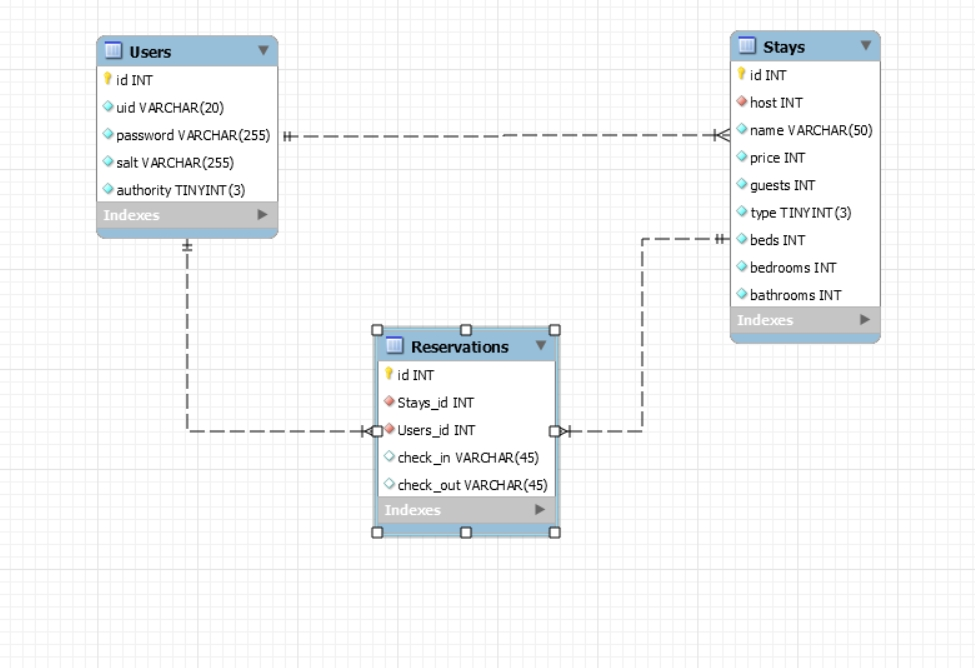
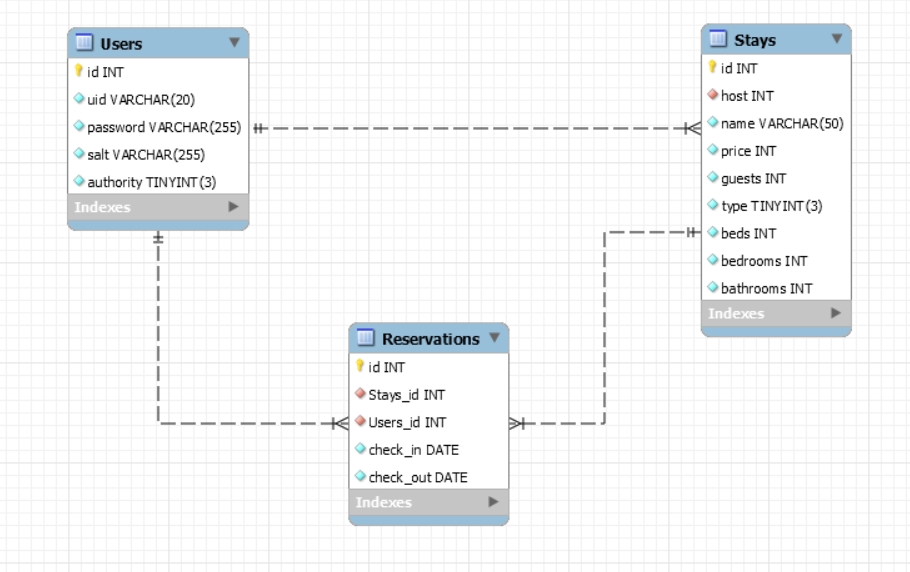
Add: db initialization script with sequelize
- sequelize orm을 이용하여 DB초기화를 편하게 하기 위한 스크립트 생성
- 현재 4종류의 더미 유저 데이터만 들어가는 상태로, 향후 예약 / 숙소 더미
데이터를 입력해야 함

Changed region(s): [[0.0615, 0.0297, 0.9538, 0.9213]]

diff --git a/airbnb/scripts/db_initialization.js b/airbnb/scripts/db_initialization.js
@@ -1,16 +1,146 @@
-const mysql = require('mysql2');
-require('dotenv').config()
+const Sequelize = require('sequelize')
+const sequelize = require('../src/js/util/util_sequelize')
 
-const connection = mysql.createConnection({
-    host: process.env.MYSQL_HOST,
-    user: process.env.MYSQL_USER,
-    password: process.env.MYSQL_PASSWORD,
-    database: process.env.MYSQL_DATABASE_NAME
+// User 스키마 정의
+const User = sequelize.define('user', {
+    uid: {
+        type: Sequelize.STRING(20),
+        allowNull: false,
+        unique: true,
+        validate: {
+            is: /[a-z0-9\_\-]*/,
+            len: [4, 20],
+            notEmpty: true
+        }
+    },
+    password: {
+        type: Sequelize.STRING(255),
+        allowNull: false
+    },
+    salt: {
+        type: Sequelize.STRING(255),
+        allowNull: false
+    },
+    authority: {
+        type: Sequelize.INTEGER(10).UNSIGNED,
+        allowNull: false,
+        defaultValue: 0,
+        unique: true,
+        validate: {
+            min: 0,
+            max: 10
+        }
+    }
+})
+
+// Stays 스키마 정의
+const Stay = sequelize.define('stay', {
+    name: {
+        type: Sequelize.STRING(50),
+        allowNull: false
+    },
+    price: {
+        type: Sequelize.INTEGER.UNSIGNED,
+        allowNull: false
+    },
+    guests: {
+        type: Sequelize.INTEGER.UNSIGNED,
+        allowNull: false
+    },
+    type: {
+        type: Sequelize.INTEGER(10).UNSIGNED,
+        allowNull: false,
+        validate: {
+            min: 0,
+            max: 10
+        }
+    },
+    beds: {
+        type: Sequelize.INTEGER.UNSIGNED,
+        allowNull: false
+    },
+    bedrooms: {
+        type: Sequelize.INTEGER.UNSIGNED,
+        allowNull: false
+    },
+    bathrooms: {
+        type: Sequelize.INTEGER.UNSIGNED,
+        allowNull: false
+    },
+})
+
+// Reservations 스키마 정의
+const Reservation = sequelize.define('reservation', {
+    check_in: {
+        type: Sequelize.DATEONLY,
+        allowNull: false
+    },
+    check_out: {
+        type: Sequelize.DATEONLY,
+        allowNull: false
+    }
+})
+
+// Association 정의
+User.hasMany(Stay, {
+    onUpdate: 'CASCADE',
+    onDelete: 'CASCADE',
+    foreignKey: {
+        allowNull: false
+    }
+})
+
+User.hasMany(Reservation, {
+    onUpdate: 'CASCADE',
+    onDelete: 'CASCADE',
+    foreignKey: {
+        allowNull: false
+    }
+})
+
+Stay.hasMany(Reservation, {
+    onUpdate: 'CASCADE',
+    onDelete: 'CASCADE',
+    foreignKey: {
+        allowNull: false
+    }
 });
 
-//Connection start
-connection.connect();
+// DB에 스키마를 통해 테이블 생성
+(async() => {
+    await sequelize.sync({
+        force: true
+    })
 
+    // User seed
+    User.create({
+        uid: 'admin',
[2 lines of base64/hex data omitted]
+        authority: 3
+    })
 
-//Connection end
-connection.end();
+    User.create({
+        uid: 'user',
[2 lines of base64/hex data omitted]
+        authority: 0
+    })
+
+    User.create({
+        uid: 'host',
[2 lines of base64/hex data omitted]
+        authority: 1
+    })
+
+    User.create({
+        uid: 'superhost',
[2 lines of base64/hex data omitted]
+        authority: 2
+    })
+
+    // TODO: Stay seed
+    // TODO: Reservation seed
+})()

diff --git a/airbnb/src/js/util/util_sequelize.js b/airbnb/src/js/util/util_sequelize.js
@@ -1,0 +1,26 @@
+require('dotenv').config();
+
+const Sequelize = require('sequelize');
+
+// Sequelize & MySQL
+const sequelize = new Sequelize(
+    process.env.MYSQL_DATABASE,
+    process.env.MYSQL_USER,
+    process.env.MYSQL_PASSWORD,
+    {
+        timezone: '+09:00',
+        host: process.env.MYSQL_HOST,
+        port: 3306,
+        dialect: 'mysql',
+        pool: {
+            max: 5,
+            min: 0,
+            idle: 10000
+        },
+        define: {
+            underscored: true
+        },
+    }
+);
+
+module.exports = sequelize
